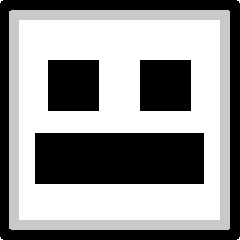
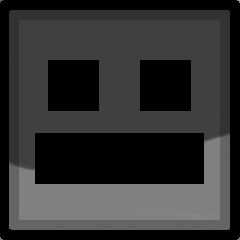
some particles type shit

diff --git a/Particle.java b/Particle.java
@@ -1,14 +1,5 @@
-import greenfoot.*;  // (World, Actor, GreenfootImage, Greenfoot and MouseInfo)
+import greenfoot.*;  
 
-/**
- * Particle is a general purpose particle engine based off square, single coloured images that fade out and slow down
- * This class is meant to be as general as possible, as to be used in as many places in this project as possible
- * 
- * ROTATION STARTS POINTING RIGHT AND INCREASES COUNTER CLOCKWISE
- * 
- * @Author Chase Coulter
- * @Verson v1.0
- */
 public class Particle extends Visual
 {
     protected int lifeSpan;
@@ -18,73 +9,54 @@ public class Particle extends Visual
     protected int spread;
     protected int size;
     protected Color color;
-    protected boolean fadeOut = true;//in case i want to mess with this later
-    
-    /**
-     * @Param int direction, direction of which way you want to shoot particles
-     * @Param int spread, random spread around the direction you selected
-     * @Param double speed, initial speed of particles
-     * @Param int size, particle size in pixels
-     * @Param int life, lifeSpan in acts
-     * @Param Color color, color of particle
-     */
+    protected boolean fadeOut = true;
+    protected double speedDecay;
+
     public Particle(int direction, int spread, double speed, int size, int life, Color color){
         initialDirection = direction;
         this.spread = spread;
         this.speed = speed; 
         this.size = size;
-        lifeSpan = life;
-        maxLife = life;
         this.color = color;
-        int finalDirection = direction + Greenfoot.getRandomNumber(spread * 2)-spread;//sets final direction to direction +- spread
-        setRotation(finalDirection); 
+
+        int variation = Math.max(1, life / 10);
+        lifeSpan = life + Greenfoot.getRandomNumber(variation * 2 + 1) - variation;
+        maxLife = lifeSpan;
+
+        int finalDirection = direction + Greenfoot.getRandomNumber(spread * 2) - spread;
+        setRotation(finalDirection);
+
+        speedDecay = speed / maxLife;
+
         updateImage();
     }
-    
-    /**
-     * DEFAULTS TO BLACK
-     * 
-     * @Param int direction, direction of which way you want to shoot particles
-     * @Param int spread, random spread around the direction you selected
-     * @Param double speed, initial speed of particles
-     * @Param int size, particle size in pixels
-     * @Param int life, lifeSpan in acts
-     */
-    public Particle(int direction, int spread, double speed, int size, int life){
-        initialDirection = direction;
-        this.spread = spread;
-        this.speed = speed; 
-        this.size = size;
-        lifeSpan = life;
-        maxLife = life;
-        this.color = (new Color(0,0,0,255));
-        int finalDirection = direction + Greenfoot.getRandomNumber(spread * 2)-spread;//sets final direction to direction +- spread
-        setRotation(finalDirection); 
-        updateImage();
-    }
-    
-    /**
-     * handles fade out and deaccel
-     */
+
     private void updateImage()
     {
         GreenfootImage img = new GreenfootImage(size, size);
-        int alpha = 255;
-        if (fadeOut)
-        {
-            alpha = (int)(255.0 * lifeSpan / maxLife);
-            if (alpha < 1) alpha = 1;
-        }
-        img.setColor(color);
+        int alpha = fadeOut ? (int)(255.0 * lifeSpan / maxLife) : 255;
+        if(alpha < 0) alpha = 0;
+        img.setColor(new Color(color.getRed(), color.getGreen(), color.getBlue(), alpha));
         img.fill();
         setImage(img);
     }
-    
-    public void act(){
+
+    public void act()
+    {
         move(speed);
+
+        if(speed > 0) {
+            speed -= speedDecay;
+            if(speed < 0) speed = 0;
+        } else if(speed < 0) {
+            speed -= speedDecay;
+            if(speed > 0) speed = 0;
+        }
+
         lifeSpan--;
-        updateImage();//fadeout and slow
-        if(lifeSpan <=0 && getWorld() != null){ //if end of life and nullcheck
+        updateImage();
+
+        if(lifeSpan <= 0 && getWorld() != null){
             getWorld().removeObject(this);
         }
     }

diff --git a/Cube.java b/Cube.java
@@ -74,7 +74,10 @@ public class Cube extends Player
         
         if (isGrounded) roundToClosestRotation();
         
+
+        
         checkCollsions();
+        spawnGroundDust();
     }
     
     private void checkCollsions()
@@ -103,6 +106,9 @@ public class Cube extends Player
         {
             spacePressed = true;
             jump();
+            for(int i = 0; i<10;i++){
+                spawnJumpParticles();
+            }
             jumpSound.play();
         }
         
@@ -141,7 +147,7 @@ public class Cube extends Player
     }
     
     private void cubeImage(){
-        image = new GreenfootImage("images/Player/cubePlaceholder.png");
+        image = new GreenfootImage("images/Player/cube1.png");
         image.scale(ScrollWorld.TILE_SIZE, ScrollWorld.TILE_SIZE);
         setImage(image);
     }
@@ -211,5 +217,29 @@ public class Cube extends Player
         }
         
         setRotation(0);
+    }
+    
+    /**
+     * @Author Chase Coulter
+     */
+    private void spawnGroundDust()
+    {
+        if (!isGrounded) return;//only run code if grounded
+        ScrollWorld.getWorld().spawnParticle(200, 25, 6, 8, 30,new Color(0, 0, 0),getX()-20, getY() + 20);
+    }
+    
+    private void spawnJumpParticles() {
+        if (isGrounded) return;
+    
+        ScrollWorld world = ScrollWorld.getWorld();
+        int baseX = getX();
+        int baseY = getY();
+        int direction = 90;
+        int spread = 30;
+        double speed = 2.0 + Greenfoot.getRandomNumber(4);
+        int size = 12;
+        int life = 30 + Greenfoot.getRandomNumber(20) - 5;
+        Color color = new Color(200, 200, 200);
+        world.spawnParticle(direction, spread, speed, size, life, color, baseX - 20, baseY + 20);
     }
 }

diff --git a/ScrollWorld.java b/ScrollWorld.java
@@ -122,6 +122,15 @@ public class ScrollWorld extends World {
         }
     }
     
+    /**
+     * @Author Chase Coulter
+     */
+    public void spawnParticle(int direction,int spread,double speed,int size,int life,Color color,int x, int y)
+    {
+        addObject(new Particle(direction,spread,speed,size,life,color),x, y);
+    }
+
+    
     public static ScrollWorld getWorld() {
         return world;
     }
